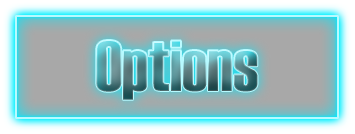
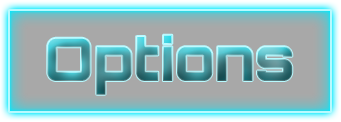
Grafiken eingebaut

diff --git a/GUI/SpielereinstellungenMenue.java b/GUI/SpielereinstellungenMenue.java
@@ -2,85 +2,109 @@ package GUI;
 
 import java.awt.Color;
 import java.awt.Dimension;
-import java.awt.FlowLayout;
 import java.awt.Font;
 import java.awt.Graphics;
+import javax.swing.JTextField;
+import java.awt.Image;
 
 import javax.swing.BorderFactory;
 import javax.swing.JLabel;
 import javax.swing.JPanel;
-import javax.swing.JTextArea;
-import java.awt.FlowLayout;
-import java.awt.GridLayout;
+import javax.swing.ImageIcon;
+
 
 @SuppressWarnings("serial")
 public class SpielereinstellungenMenue extends JPanel {
 	
-	private JTextArea sname1;
-	private JTextArea sname2;
-	private JLabel lname1;
-	private JLabel lname2;
-	private JPanel flowlayoutpanel;
+	private JTextField sname1;
+	private JTextField sname2;
+	private JLabel bild;
+	private Image image;
+	private ImageCreator imagecreator;
+	private Grafikspeicher grafikspeicher;
+	private Grafikspeicher backgrafikspeicher;
+	private Grafikspeicher kigrafikspeicher;
 	
 	
 	public SpielereinstellungenMenue( int xPos,int yPos, Dimension size,Menue menue )
 	{
 		this.setLayout( null );
-		this.setBackground(new Color(0,0,0,255));
+		this.setBackground(new Color(20,60,20));
 		this.setBounds(xPos, yPos, (int)size.getWidth(), (int)size.getHeight());
 		this.setPreferredSize(size);
+		this.imagecreator = new ImageCreator(new Dimension(600,800),1, false);
+		this.image = this.imagecreator.getImage("SpielereinstellungenMenue")[0].getImage();
+		this.grafikspeicher = new Grafikspeicher(new Dimension(101,302),1, false);
+		this.grafikspeicher.setImage( "finalstart" );
 		
-		this.sname1 = new JTextArea( "Player1"  );
-		this.sname2 = new JTextArea( "Player2"  );
+		this.backgrafikspeicher = new Grafikspeicher(new Dimension(47,133),1,false);
+		this.backgrafikspeicher.setImage( "back" );
 		
-		this.flowlayoutpanel = new JPanel();
-		this.flowlayoutpanel.setLayout( new FlowLayout() );
-		this.flowlayoutpanel.add( this.sname1 );
-		this.flowlayoutpanel.setPreferredSize( new Dimension( 10, 1 ));
+		this.kigrafikspeicher = new Grafikspeicher(new Dimension(47,133),1, false);
+		this.kigrafikspeicher.setImage( "pc" );
 		
+		this.bild = new JLabel( new ImageIcon(new ImageCreator(new Dimension(600,800),1, false).getImage("SpielereinstellungenMenue")[0].getImage()));
+		this.bild.setBounds(xPos, yPos, (int)size.getWidth(), (int)size.getHeight());
 		
+		this.sname1 = new JTextField( "Player1" , 10 );
+		this.sname1.setOpaque( false );
+		this.sname2 = new JTextField( "Player2" , 10 );
+		this.sname2.setOpaque( false );
 		
-		//sname1.setBorder(BorderFactory.createEmptyBorder(5, 5, 5, 5));
-		//sname2.setBorder(BorderFactory.createEmptyBorder(5, 5, 5, 5));
+		//Rahmen von textfields durchsichtig machen
+		sname1.setBorder(BorderFactory.createEmptyBorder(5, 5, 5, 5));
+		sname2.setBorder(BorderFactory.createEmptyBorder(5, 5, 5, 5));
 		
-		this.sname1.setBackground( new Color(0,0,0,0) );
-		this.sname2.setBackground( new Color(0,0,0,0) );
+		this.sname1.setBackground( new Color(0,0,0,255) );
+		this.sname2.setBackground( new Color(0,0,0,255) );
 		
-		this.sname1.setForeground( new Color(0,0,255,255) );
-		this.sname2.setForeground( new Color(0,0,255,255) );
+		this.sname1.setForeground( new Color(0,0,255) );
+		this.sname2.setForeground( new Color(0,0,255) );
 		
-		this.lname1 = new JLabel( "Spieler 1" );
-		this.lname2= new JLabel( "Spieler 2" );
+
+		
+		//this.lname1 = new JLabel( "Spieler 1:" );
+		//this.lname2= new JLabel( "Spieler 2:" );
+		//this.lname1.setFont( new Font(Font.MONOSPACED,Font.PLAIN,16) );
+		//this.lname2.setFont( new Font(Font.MONOSPACED,Font.PLAIN,16) );
+		
 	
-		this.lname1.setForeground( new Color(0,0,255,255) );
-		this.lname2.setForeground( new Color(0,0,255,255) );
+		//this.lname1.setForeground( new Color(0,0,255,255) );
+		//this.lname2.setForeground( new Color(0,0,255,255) );
 		
-		this.lname1.setBounds(225,140, 100, 30);
-		this.lname2.setBounds(225, 270, 100, 30);
+		//this.lname1.setBounds(225,140, 100, 30);
+		//this.lname2.setBounds(225, 220, 100, 30);
 		
-		this.sname1.setFont( new Font("SANS_SERIF",3,30) );
-		this.sname2.setFont( new Font("SANS_SERIF",3,30) );
+		this.sname1.setFont( new Font(Font.MONOSPACED,Font.BOLD,30) );
+		this.sname2.setFont( new Font(Font.MONOSPACED,Font.BOLD,30) );
 		
-		//this.sname1.setBounds( 290,140, 300, 30 );
-		//this.sname2.setBounds( 225, 270, 220, 120 );
+		//hoehe 45 für das Textfield wird benötigt, weil die Buchstaben sonst abgeschnitten werden
+		 this.sname1.setBounds( 385,230, 250, 45 );
+		 this.sname2.setBounds( 385	, 288, 250, 45 );
+		 
+		 this.backgrafikspeicher.getImage().setBounds( 0,0,133,47 );
+		 
+		 this.grafikspeicher.getImage().setBounds( 280,370,302,101 );
+		 
+		 this.kigrafikspeicher.getImage().setBounds( 648,286,133,47 );
+
+		//this.add( this.lname1 );
+		this.add( this.sname1 );
 		
-		this.add( lname1 );
-	//	this.add( sname1 );
-		this.flowlayoutpanel.setBounds( 290,140, 300, 30 );
-		this.add( this.flowlayoutpanel );
-		
-		this.add( lname2 );
-	 //  this.add( sname2);
+		//this.add( this.lname2 );
+	    this.add( this.sname2);
 		
 		this.setVisible(true);
 		
-		this.repaint();
+		this.add( this.grafikspeicher.getImage() );
+		this.add( this.backgrafikspeicher.getImage() );
+		this.add( this.kigrafikspeicher.getImage() );
 
 		
 		
 	}  
 	
 		public void paintComponent(Graphics g) {
-	        g.drawImage(new ImageCreator(new Dimension(600,800),1, false).getImage("menue")[0].getImage(), 0, 0, null);
+	        g.drawImage(this.image, 0, 0, null);
 	    }
 }

diff --git a/GUI/OptionsMenue.java b/GUI/OptionsMenue.java
@@ -1,0 +1,127 @@
+package GUI;
+
+import java.awt.Color;
+import java.awt.Dimension;
+import java.awt.Font;
+import java.awt.Graphics;
+import javax.swing.JTextField;
+import java.awt.Image;
+
+import javax.swing.BorderFactory;
+import javax.swing.JLabel;
+import javax.swing.JPanel;
+import javax.swing.ImageIcon;
+import java.awt.Toolkit;
+import javax.swing.JCheckBox;
+import javax.swing.JButton;
+
+
+public class OptionsMenue extends JPanel {
+	
+	private JTextField width;
+	private JTextField height;
+	private JLabel laufloesung;
+	private JLabel bild;
+	private Image image;
+	private ImageCreator imagecreator;
+	private Dimension aufloesung;
+	//private JCheckBox grafikenLaden;
+	//private JButton speichern;
+	private JLabel onofButton;
+	private Grafikspeicher grafikspeicher;
+	private Grafikspeicher backgrafikspeicher;
+	
+	
+	public OptionsMenue( int xPos,int yPos, Dimension size,Menue menue )
+	{
+		this.setLayout( null );
+		this.setBackground(new Color(20,60,20));
+		this.setBounds(xPos, yPos, (int)size.getWidth(), (int)size.getHeight());
+		this.setPreferredSize(size);
+		this.imagecreator = new ImageCreator(new Dimension(600,800),1, false);
+		this.image = this.imagecreator.getImage("MenuOptionsBack")[0].getImage();
+		
+		//this.grafikenLaden = new JCheckBox( "Grafiken vorladen" , false );
+		//this.grafikenLaden.setOpaque( false );
+		//this.grafikenLaden.setFont( new Font(Font.MONOSPACED,Font.BOLD,28) );
+		//this.grafikenLaden.setForeground( new Color(0,0,255) );
+		//this.grafikenLaden.setBackground( new Color(0,0,0,255) );
+		//this.grafikenLaden.setBorder(BorderFactory.createEmptyBorder(5, 5, 5, 5));
+
+		//this.speichern = new JButton( "Speichern" );
+		//this.speichern.setBounds( 235, 435, 320, 45 );
+		
+		//this.bild = new JLabel( new ImageIcon(new ImageCreator(new Dimension(600,800),1, false).getImage("MenuOptionsBack")[0].getImage()));
+		//this.bild.setBounds(xPos, yPos, (int)size.getWidth(), (int)size.getHeight());
+		
+		this.aufloesung = Toolkit.getDefaultToolkit().getScreenSize();
+		
+		this.height = new JTextField( "" + (int)this.aufloesung.getHeight() , 10 );
+		this.height.setOpaque( false );
+		this.width = new JTextField( "" + (int)this.aufloesung.getWidth() , 10 );
+		this.width.setOpaque( false );
+		
+		this.grafikspeicher = new Grafikspeicher(new Dimension(47,133),1, false);
+		this.grafikspeicher.setImage( "on" );
+		this.backgrafikspeicher = new Grafikspeicher(new Dimension(47,133),1,false);
+		this.backgrafikspeicher.setImage( "back" );
+		//this.onofButton.setBounds( 0, 0, 133, this.onofButton.getHeight() );
+		//System.out.println( this.onofButton.getHeight() );
+		
+		
+		//Rahmen von textfields durchsichtig machen
+		width.setBorder(BorderFactory.createEmptyBorder(5, 5, 5, 5));
+		height.setBorder(BorderFactory.createEmptyBorder(5, 5, 5, 5));
+		
+		this.width.setBackground( new Color(0,0,0,255) );
+		this.height.setBackground( new Color(0,0,0,255) );
+		
+		this.width.setForeground( new Color(0,0,255) );
+		this.height.setForeground( new Color(0,0,255) );
+		
+		//this.laufloesung = new JLabel( "Auflösung:" );
+		//this.laufloesung.setFont( new Font(Font.MONOSPACED,Font.BOLD,22) );
+		//this.laufloesung.setForeground( new Color(0,0,255,255) );
+		//this.laufloesung.setBounds(235, 235, 300, 45);
+
+		
+		this.width.setFont( new Font(Font.MONOSPACED,Font.BOLD,30) );
+		this.height.setFont( new Font(Font.MONOSPACED,Font.BOLD,30) );
+		
+		//this.add( this.bild );
+		
+		//hoehe 45 für das Textfield wird benötigt, weil die Buchstaben sonst abgeschnitten werden
+		 this.width.setBounds( 425, 365, 100, 45 );
+		 this.height.setBounds( 590, 365, 100, 45 );
+		 
+		 //this.grafikenLaden.setBounds( 235, 335, 410, 45 );
+		
+
+		//this.add( this.laufloesung );
+		this.add( this.width );
+	    this.add( this.height);
+	    
+	    this.grafikspeicher.getImage().setBounds( 485,250,133,47 );
+	    this.backgrafikspeicher.getImage().setBounds( 0,0,133,47 );
+	    
+	    
+	    this.add( this.grafikspeicher.getImage() );
+	    this.add( this.backgrafikspeicher.getImage() );
+	    
+	   // this.add( this.grafikenLaden );
+	    
+	   // this.add( this.speichern );
+		
+		this.setVisible(true);
+
+		
+		
+		
+	}
+		
+		public void paintComponent(Graphics g) {
+	        g.drawImage(this.image, 0, 0, null);
+	    }
+	
+}
+
